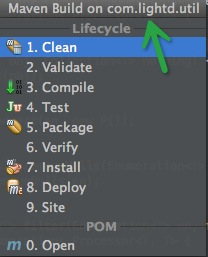
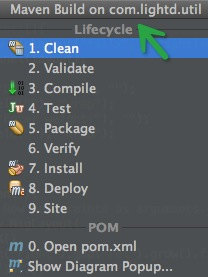
Update docs

Changed region(s): [[0.0, 0.0, 1.0, 1.0]]

diff --git a/README.md b/README.md
@@ -1,11 +1,11 @@
 MvnRunner
 =========
 
-a IntelliJ plugin for maven module, run unit testing and main method, by mvn.
+a IntelliJ plugin for maven module, building, run unit testing and main method, by mvn.
 
 插件做了什么？
 ---------
-针对 maven 管理的 Java 项目，在 Run 和 Debug 两个菜单项上新增 maven 的处理方式，根据上下文直接调用 maven 的原生命令来进行单元测试或 main 方法的运行，你仍然可以使用原有的处理方式运行。
+针对 maven 管理的 Java 项目，添加 maven 模块构建菜单；在 Run 和 Debug 两个菜单项上新增 maven 的处理方式，根据上下文直接调用 maven 的原生命令来进行单元测试或 main 方法的运行，你仍然可以使用原有的处理方式运行。
 
 需求
 ----
@@ -26,6 +26,7 @@ IntelliJ 13 及更高版本
 6. 允许配置 fork 模式(配置均属 application level)
 7. 为 maven 构建添加 Quick switch popup menu(shortcut: ^M)
 8. maven 构建菜单添加到 Build main menu 中
+9. 支持快速查看 module 依赖
 
 FAQ
 ----
